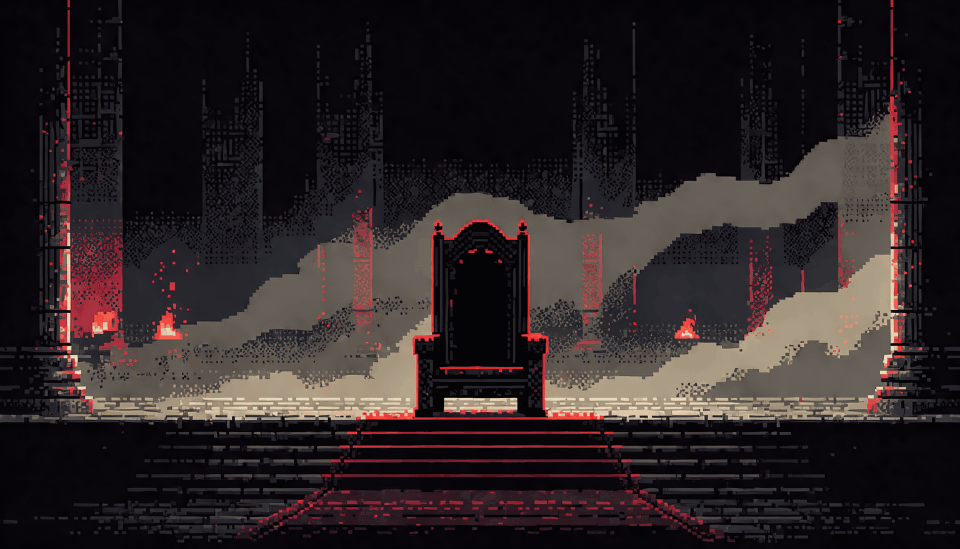
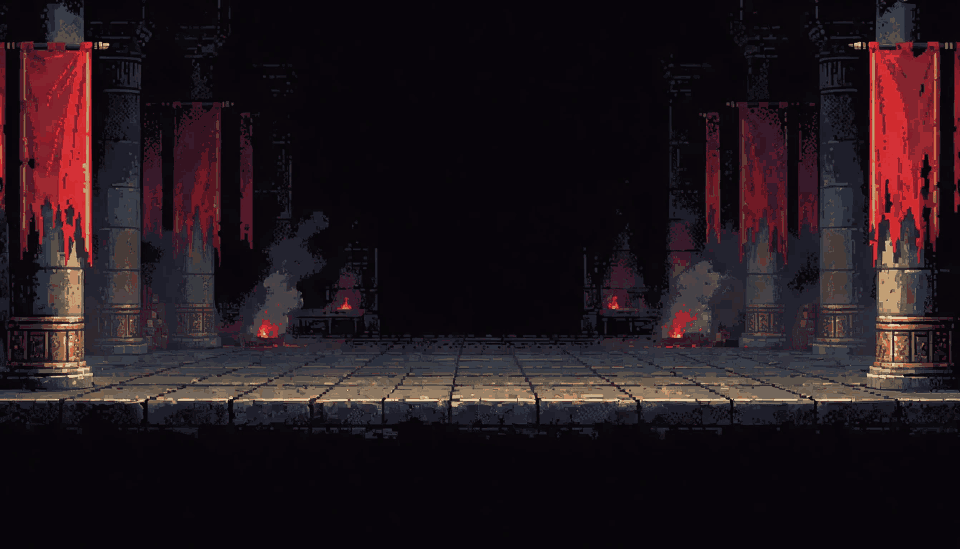
Capitolo 6: nuovo sfondo del palazzo oscuro nel sogno, trono a terra al centro-destra, camminata della figura luminosa, soldati sul fondo (v1.209)

diff --git a/index.html b/index.html
@@ -878,7 +878,7 @@
       <button class="hs-btn btn-secondario" id="hb-3">TORNEO</button>
     </div>
     <div class="hs-extra"><button class="btn-secondario" id="hb-4">ALLENAMENTO</button><button class="btn-secondario" id="hb-chars">PERSONAGGI</button></div>
-    <div class="hs-foot"><span>Dal libro Le Sopracciglia della Guerra · v1.208</span><button id="hb-cred">Crediti</button><button id="hb-install" class="hs-install" hidden>Installa l’app</button></div>
+    <div class="hs-foot"><span>Dal libro Le Sopracciglia della Guerra · v1.209</span><button id="hb-cred">Crediti</button><button id="hb-install" class="hs-install" hidden>Installa l’app</button></div>
   </div>
   <!-- impostazioni: icona in alto a sinistra, pannello a comparsa -->
   <button id="hb-set" class="btn-icona" aria-label="Impostazioni"><svg class="pxi" viewBox="0 0 16 16" width="32" height="32" shape-rendering="crispEdges" aria-hidden="true"><rect class="px-o" x="6" y="1" width="4" height="1"/><rect class="px-o" x="2" y="2" width="2" height="1"/><rect class="px-o" x="6" y="2" width="1" height="1"/><rect class="px-g" x="7" y="2" width="2" height="1"/><rect class="px-o" x="9" y="2" width="1" height="1"/><rect class="px-o" x="12" y="2" width="2" height="1"/><rect class="px-o" x="1" y="3" width="1" height="1"/><rect class="px-g" x="2" y="3" width="2" height="1"/><rect class="px-o" x="4" y="3" width="2" height="1"/><rect class="px-g" x="6" y="3" width="4" height="1"/><rect class="px-o" x="10" y="3" width="2" height="1"/><rect class="px-g" x="12" y="3" width="2" height="1"/><rect class="px-o" x="14" y="3" width="1" height="1"/><rect class="px-o" x="1" y="4" width="1" height="1"/><rect class="px-g" x="2" y="4" width="11" height="1"/><rect class="px-G" x="13" y="4" width="1" height="1"/><rect class="px-o" x="14" y="4" width="1" height="1"/><rect class="px-o" x="2" y="5" width="1" height="1"/><rect class="px-g" x="3" y="5" width="4" height="1"/><rect class="px-o" x="7" y="5" width="2" height="1"/><rect class="px-g" x="9" y="5" width="4" height="1"/><rect class="px-o" x="13" y="5" width="1" height="1"/><rect class="px-o" x="1" y="6" width="2" height="1"/><rect class="px-g" x="3" y="6" width="3" height="1"/><rect class="px-o" x="6" y="6" width="1" height="1"/><rect class="px-o" x="9" y="6" width="1" height="1"/><rect class="px-g" x="10" y="6" width="3" height="1"/><rect class="px-o" x="13" y="6" width="2" height="1"/><rect class="px-o" x="0" y="7" width="1" height="1"/><rect class="px-g" x="1" y="7" width="4" height="1"/><rect class="px-o" x="5" y="7" width="1" height="1"/><rect class="px-o" x="10" y="7" width="1" height="1"/><rect class="px-g" x="11" y="7" width="2" height="1"/><rect class="px-G" x="13" y="7" width="2" height="1"/><rect class="px-o" x="15" y="7" width="1" height="1"/><rect class="px-o" x="0" y="8" width="1" height="1"/><rect class="px-g" x="1" y="8" width="4" height="1"/><rect class="px-o" x="5" y="8" width="1" height="1"/><rect class="px-o" x="10" y="8" width="1" height="1"/><rect class="px-g" x="11" y="8" width="1" height="1"/><rect class="px-G" x="12" y="8" width="3" height="1"/><rect class="px-o" x="15" y="8" width="1" height="1"/><rect class="px-o" x="1" y="9" width="2" height="1"/><rect class="px-g" x="3" y="9" width="3" height="1"/><rect class="px-o" x="6" y="9" width="1" height="1"/><rect class="px-o" x="9" y="9" width="1" height="1"/><rect class="px-g" x="10" y="9" width="1" height="1"/><rect class="px-G" x="11" y="9" width="2" height="1"/><rect class="px-o" x="13" y="9" width="2" height="1"/><rect class="px-o" x="2" y="10" width="1" height="1"/><rect class="px-g" x="3" y="10" width="3" height="1"/><rect class="px-G" x="6" y="10" width="1" height="1"/><rect class="px-o" x="7" y="10" width="2" height="1"/><rect class="px-G" x="9" y="10" width="4" height="1"/><rect class="px-o" x="13" y="10" width="1" height="1"/><rect class="px-o" x="1" y="11" width="1" height="1"/><rect class="px-g" x="2" y="11" width="2" height="1"/><rect class="px-G" x="4" y="11" width="10" height="1"/><rect class="px-o" x="14" y="11" width="1" height="1"/><rect class="px-o" x="1" y="12" width="1" height="1"/><rect class="px-G" x="2" y="12" width="2" height="1"/><rect class="px-o" x="4" y="12" width="2" height="1"/><rect class="px-G" x="6" y="12" width="4" height="1"/><rect class="px-o" x="10" y="12" width="2" height="1"/><rect class="px-G" x="12" y="12" width="2" height="1"/><rect class="px-o" x="14" y="12" width="1" height="1"/><rect class="px-o" x="2" y="13" width="2" height="1"/><rect class="px-o" x="6" y="13" width="1" height="1"/><rect class="px-G" x="7" y="13" width="2" height="1"/><rect class="px-o" x="9" y="13" width="1" height="1"/><rect class="px-o" x="12" y="13" width="2" height="1"/><rect class="px-o" x="6" y="14" width="4" height="1"/></svg></button>
@@ -901,7 +901,7 @@
     <div class="cr-b"><div class="cr-r">IDEAZIONE, SVILUPPO<br>E GRAFICHE DEL GIOCO</div><div class="cr-n">Chiara Corbo</div></div>
     <div class="cr-b"><div class="cr-r">MUSICHE</div><div class="cr-n">Federico Baccetti</div></div>
     <div class="cr-end">Grazie per aver giocato!<br>Che le vostre sopracciglia siano sempre in guerra.</div>
-    <p class="lic">Vittoria di Luca Pisani: W. A. Mozart, <i>Eine kleine Nachtmusik</i> (pubblico dominio). Carattere Pixelify Sans © 2021 The Pixelify Sans Project Authors, SIL Open Font License 1.1 (openfontlicense.org). Versione v1.208.</p>
+    <p class="lic">Vittoria di Luca Pisani: W. A. Mozart, <i>Eine kleine Nachtmusik</i> (pubblico dominio). Carattere Pixelify Sans © 2021 The Pixelify Sans Project Authors, SIL Open Font License 1.1 (openfontlicense.org). Versione v1.209.</p>
     <button id="cred-close" class="btn-primario">CHIUDI</button>
   </div></div>
 </div>
@@ -3565,7 +3565,7 @@ _comparsa('prigioniero','PRIGIONIERO',1.28,{parla:_P('parla',12,8,_PARLA),suppli
 _comparsa('usagi','USAGISENPAI',1,{saluta:_P('saluta',12,10,{ciclo:6}),ride:_P('ride',12,10,_PARLA),parla:_P('parla',12,8,_PARLA)},{fw:144,fh:144,ax:72,ay:122});
 /* il sogno: figure di luce senza volto (niente nome, niente ritratto: non parlano) */
 _comparsa('figurapaterna','',1.28,{si_china:_P('si_china',12,6,{ciclo:6})},{fw:160,fh:160,ax:80,ay:155});
-_comparsa('figuraluminosa','',1.28,{spada:_P('spada',12,14)},{fw:224,fh:192,ax:112,ay:187});
+_comparsa('figuraluminosa','',1.28,{spada:_P('spada',12,14),cammina:_P('cammina',12,12,{loop:true})},{fw:224,fh:192,ax:112,ay:187});
 /* il pensiero di Iacopo davanti allo specchio: riquadro in corsivo con il nome IACOPO (come Mango, ma senza "Bau!": non c'è nessun attore in scena) */
 STORY_ROSTER.iacopopensiero={id:'iacopopensiero',name:'IACOPO',uso:'comparsa',senzaRitratto:true};ABBAIA.iacopopensiero=true;
 COPPIE.iacopo_zibe_colletto={file:'iacopo_zibe_colletto',n:12,fps:10,pingpong:true,fw:192,fh:192,ax:96,ay:186,scala:1.28};   /* Iacopo a sinistra nel disegno */
@@ -3592,7 +3592,7 @@ function _foglio(c,t,w,i,m){const f=FORUM[i],k=Math.min(1,t/.3),W2=360,H2=150,x=
   _aCapo(c,'“'+f[1]+'”',W2-28).forEach((r,j)=>c.fillText(r,-W2/2+14,-H2/2+34+j*15));c.restore();}
 const SFONDI_STORIA={bar_operai:{suolo:.62},
   saloon_vuoto:{suolo:.82,taglio:'alto',cima:.06},saloon_devastato:{suolo:.82,taglio:'alto',cima:.06},   /* stessa inquadratura del bar normale */   /* meno ingrandito: finestre e bottiglie intere */piazza_deserto:{suolo:.8,taglio:'alto',cima:.03},   /* in alto: la testa della statua resta visibile */
-  bar_deserto:{suolo:.8},bar_deserto_devastato:{suolo:.8},strada_inseguimento:{suolo:.9},sala_khera:{suolo:.88},appartamento:{suolo:.74},bar_khera:{suolo:.86},bar_khera_vuoto:{suolo:.8},altopiano_khera:{suolo:.86},corridoio_khera:{suolo:.74},magazzino_base:{suolo:.76},magazzino_dopo:{suolo:.76},terrazza_palazzo:{suolo:.72},sogno_prato:{suolo:.9,taglio:'alto',cima:0},sogno_palazzo:{suolo:.84},postazione_sito:{suolo:.95,taglio:'alto',cima:0},balcone_torre:{suolo:.9,taglio:'alto',cima:0},nero_pieno:{suolo:.86},
+  bar_deserto:{suolo:.8},bar_deserto_devastato:{suolo:.8},strada_inseguimento:{suolo:.9},sala_khera:{suolo:.88},appartamento:{suolo:.74},bar_khera:{suolo:.86},bar_khera_vuoto:{suolo:.8},altopiano_khera:{suolo:.86},corridoio_khera:{suolo:.74},magazzino_base:{suolo:.76},magazzino_dopo:{suolo:.76},terrazza_palazzo:{suolo:.72},sogno_prato:{suolo:.9,taglio:'alto',cima:0},sogno_palazzo:{suolo:.72},postazione_sito:{suolo:.95,taglio:'alto',cima:0},balcone_torre:{suolo:.9,taglio:'alto',cima:0},nero_pieno:{suolo:.86},
   cortile_pista:{suolo:.8},cortile_pista2:{suolo:.8},vicolo_pioggia:{suolo:.82},qg_esterno:{suolo:.75},tetti_qg:{suolo:.78},qg_fiamme:{suolo:.86},cielo_notte:{suolo:.95},periferia_notte:{suolo:.87},auto_pioggia:{suolo:.55},
   studio_tg2:{suolo:.83},rifugio_fronte:{suolo:.64},rifugio_cucina:{suolo:.64},rifugio_mensa:{suolo:.64},rifugio_svago:{suolo:.64},rifugio_assemblea:{suolo:.64},sala_danza:{suolo:.8},giardino_ricevimento:{suolo:.78},retro_furgone:{suolo:.9},furgone_fuori:{suolo:.70},tetto_piazza:{suolo:.7},studio_tg:{suolo:.77},sala_riunioni:{suolo:.71},sala_riunioni2:{suolo:.75},
   strada_murale:{suolo:.915},   /* cap02: i piedi sul marciapiede, non sul muro */
@@ -4893,9 +4893,9 @@ const STORIA={
         {attesa:1},{effetto:'lampo',colore:'#FFFFFF',durata:.2},
       ]},
       /* ...lampo bianco: il palazzo oscuro, l'alpaca senza volto e la figura luminosa con la spada */
-      {id:'cap06_p15b',tipo:'scena',sfondo:'sogno_palazzo',oggetti:[{img:'alpaca_trono',x:.53,scala:1.15}],livelli:['soldati_ombra','aura_scura','luce_spada'],entrata:0,attori:[],azioni:[
+      {id:'cap06_p15b',tipo:'scena',sfondo:'sogno_palazzo',oggetti:[{img:'alpaca_trono',x:.66,scala:1.15}],livelli:['soldati_ombra','aura_scura','luce_spada'],entrata:0,attori:[],azioni:[
         {effetto:'lampo',colore:'#FFFFFF',durata:.7},{musica:'fight'},{attesa:1.2},
-        {entra:'figuraluminosa',da:'sinistra',a:.3,vel:150,verso:'destra'},{attesa:.3},
+        {entra:'figuraluminosa',da:'sinistra',a:.46,vel:150,verso:'destra'},{attesa:.3},
         {posa:{figuraluminosa:'spada'}},{attesa:.4},{effetto:'lampo',colore:'#FFFFFF',durata:.15},{effetto:'trema',forza:3,durata:.3},{attesa:.6},{posa:{figuraluminosa:'base'}},{attesa:.5},
         {posa:{figuraluminosa:'spada'}},{attesa:.4},{effetto:'lampo',colore:'#FFFFFF',durata:.18},{effetto:'trema',forza:5,durata:.35},{attesa:.6},{posa:{figuraluminosa:'base'}},{attesa:.3},
         {livello:'sogno_caos'},
@@ -5222,7 +5222,8 @@ const ANIMAZIONI={
     for(let i=0;i<16;i++){const k=(t*.25+sr(i))%1;c.fillStyle='rgba(255,225,140,'+(1-k)+')';c.fillRect(o.x+(sr(i*3)-.5)*90+Math.sin(t+i)*6,SCENA_SUOLO-10-k*190,2,2);}}},
   /* il palazzo oscuro: file di sagome nere di soldati del Regno che marciano sullo sfondo */
   soldati_ombra:{draw(c,t,w,h,d){const im=_sagoma('sprites/storia/soldato/scena/cammina.png');if(!im)return;const n=Math.round(im.width/128);
-    [[.36,SCENA_SUOLO-70,.55,18],[.5,SCENA_SUOLO-40,.8,26]].forEach(([sc,y,al,v],r)=>{c.globalAlpha=al;const passo=128*sc*.55;
+    const b=SC.animD.bg||{y:0,h:h};   /* file di soldati in fondo al pavimento (dietro i due personaggi): più piccole e più scure */
+    [[.26,b.y+b.h*.625,.45,14],[.32,b.y+b.h*.655,.6,20]].forEach(([sc,y,al,v],r)=>{c.globalAlpha=al;const passo=128*sc*.55;
       for(let i=0;i<Math.ceil(w/passo)+2;i++){const x=((i*passo+t*v)%(w+passo*2))-passo,f=(Math.floor(t*10)+i+r*3)%n;c.drawImage(im,f*128,0,128,128,x-64*sc,y-122*sc,128*sc,128*sc);}});c.globalAlpha=1;}},
   /* aura scura intorno all'alpaca senza volto sul trono */
   aura_scura:{draw(c,t,w,h,d){const o=SC&&SC.oggetti.find(x=>x.img==='alpaca_trono');if(!o||!o.I.im.naturalHeight)return;const hh=o.I.im.naturalHeight*(o.scala||1),x=o.x,y=SCENA_SUOLO-hh*.55;

diff --git a/sw.js b/sw.js
@@ -1,4 +1,4 @@
-const CACHE = 'sopracciglia-v208';
+const CACHE = 'sopracciglia-v209';
 /* IMMAGINI (sprite, sfondi): una cache che resta tra una versione e l'altra. Si prendono subito dalla memoria del telefono
    e si aggiornano in silenzio dalla rete una volta per sessione (così gli sfondi compaiono subito, anche con rete lenta). */
 const MEDIA = 'sopracciglia-immagini';
